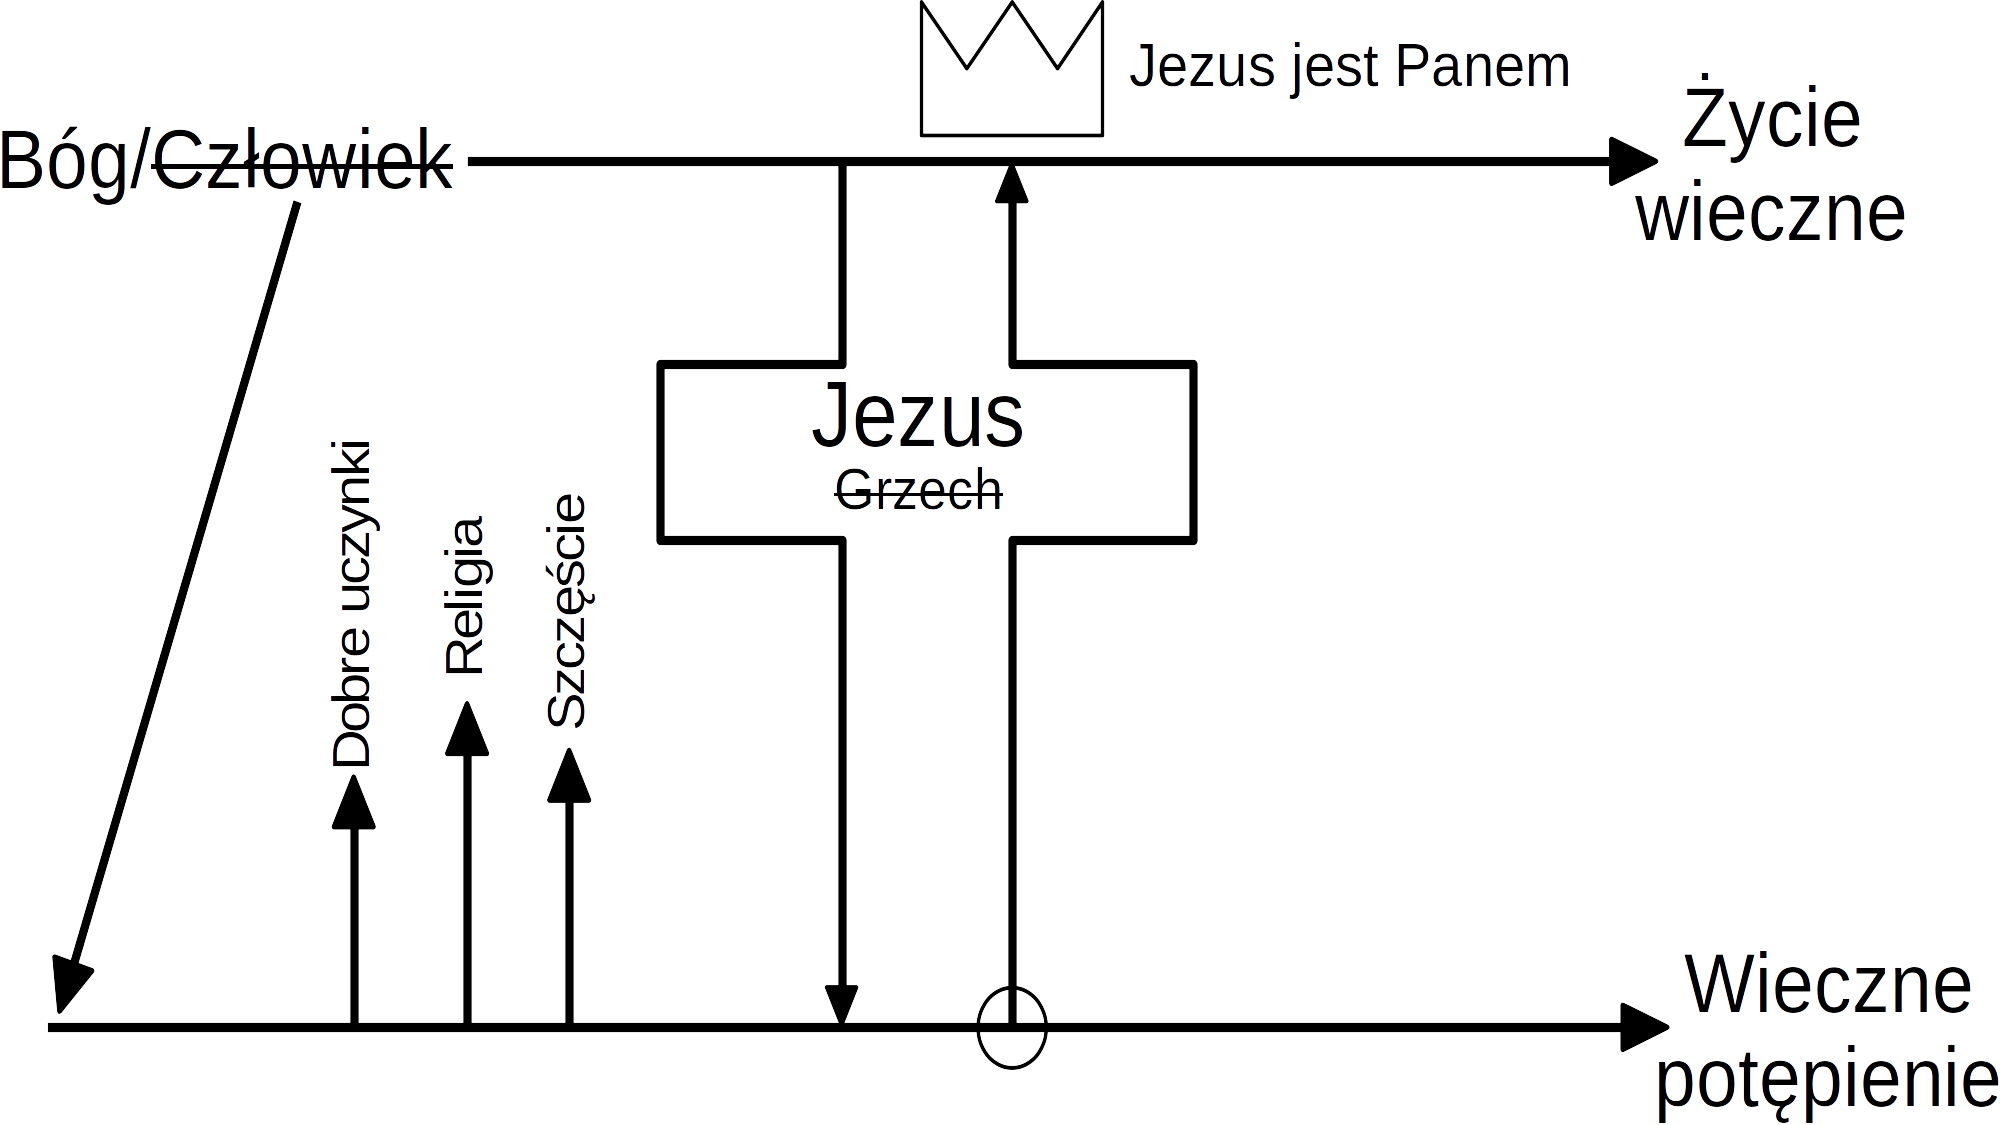
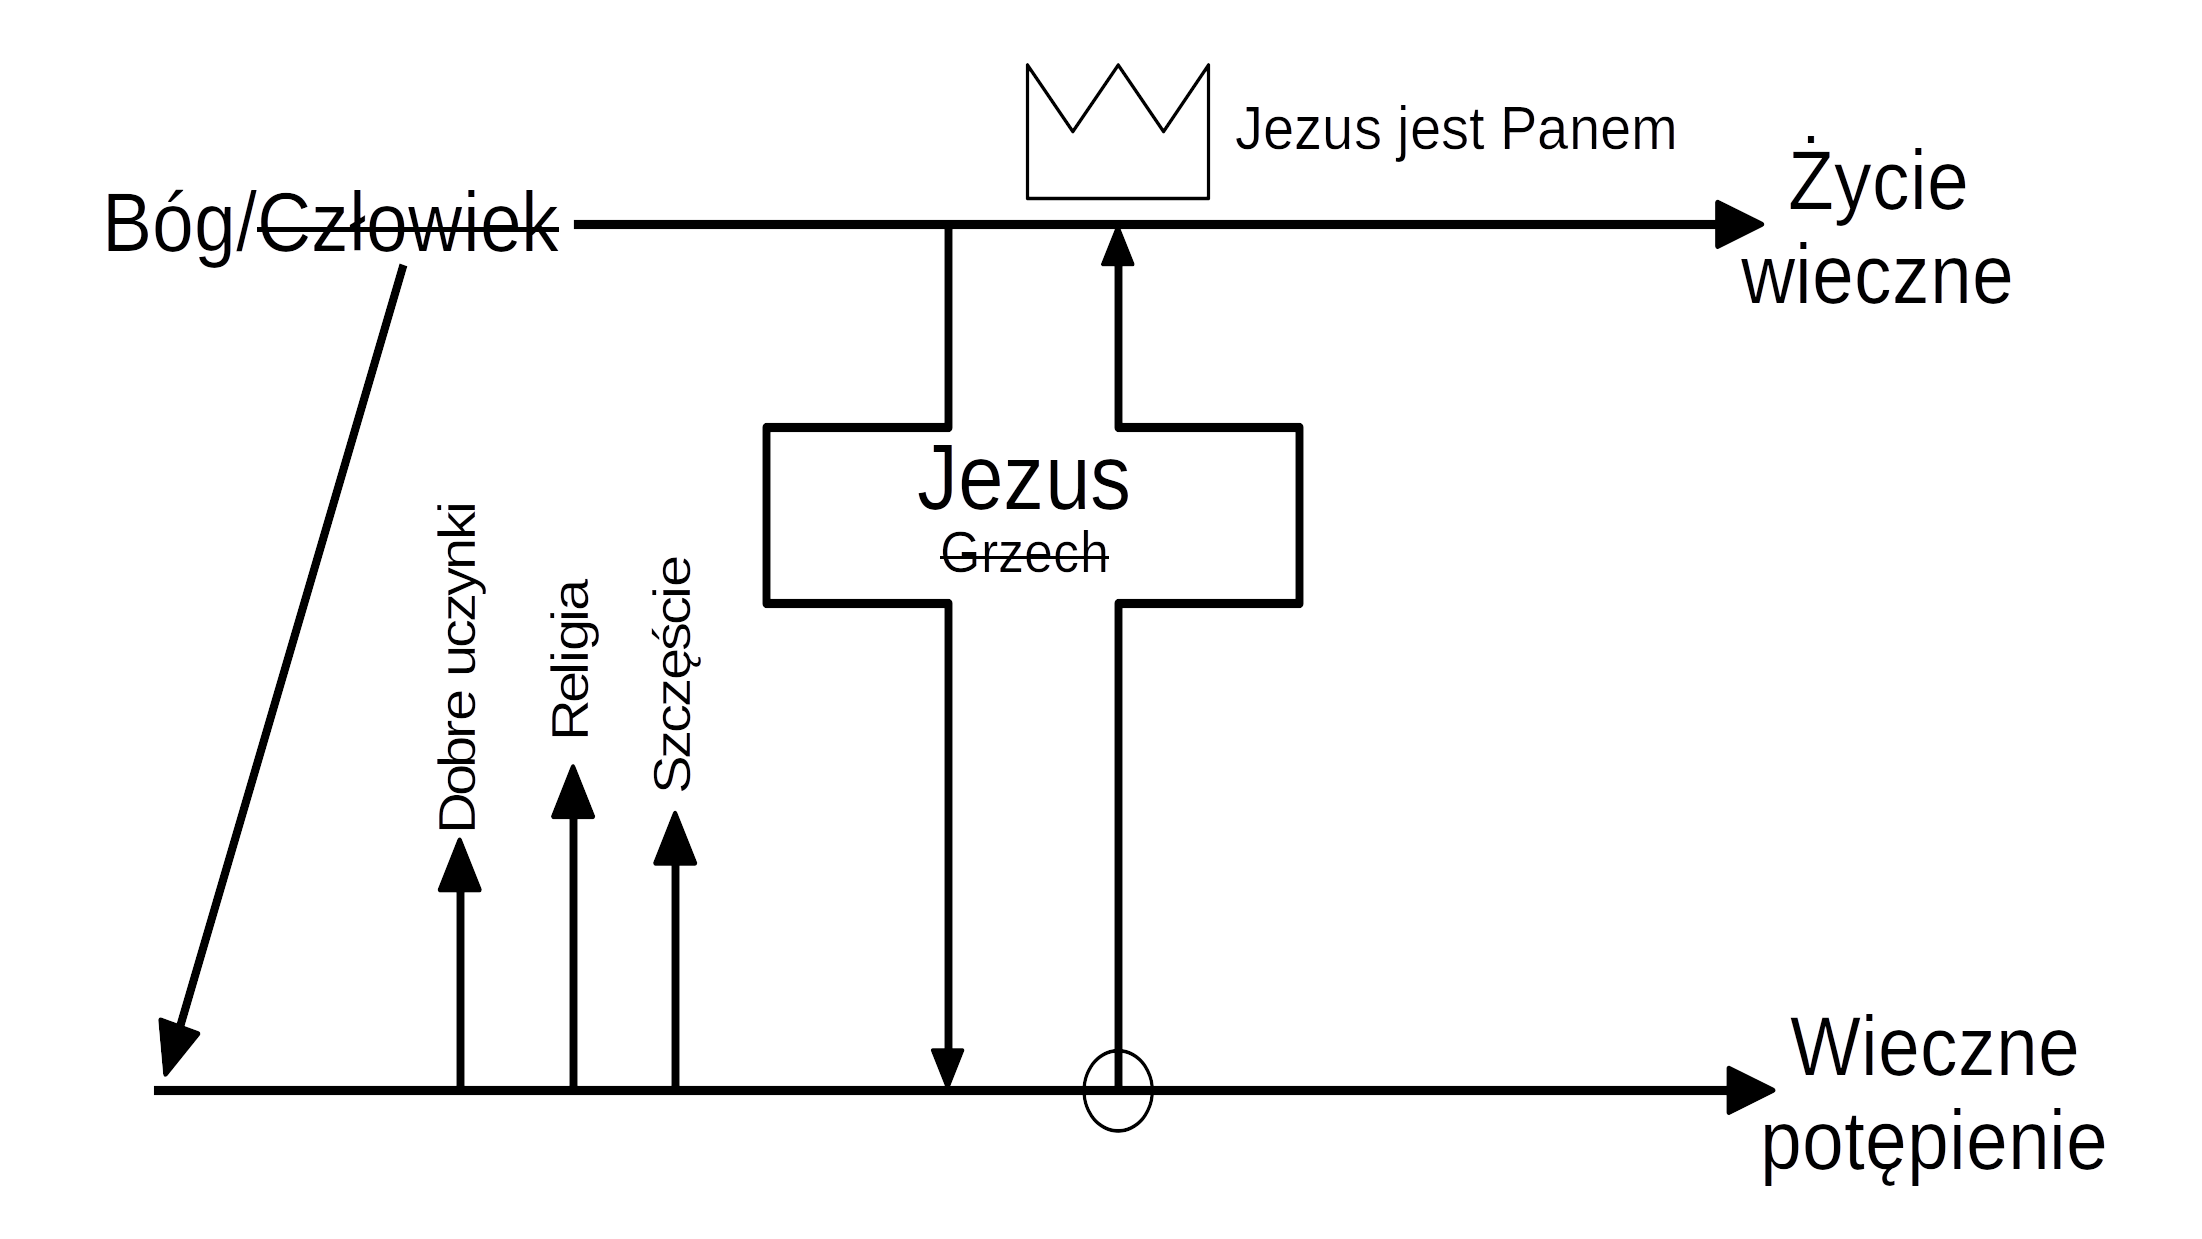
small fixex

Changed region(s): [[0.0, 0.0, 1.0, 0.9956], [0.062, 0.5289, 0.124, 0.7467]]

diff --git a/lib/src/ui/fragments/gospel_fragment.dart b/lib/src/ui/fragments/gospel_fragment.dart
@@ -64,7 +64,7 @@ class _GospelFragmentState extends State<GospelFragment> {
                       " grzechem. W innym miejscu biblia mówi, że zapłatą za"
                       " grzech jest śmierć (Rzym 6:23). W ten sposób wstępujemy"
                       " na drogą której końcem jest wieczne potępienie.",
-                  style: TextStyle(fontSize: 16, color: Colors.black),
+                  style: Theme.of(context).textTheme.subtitle1,
                   children: <TextSpan>[
                     TextSpan(
                         text:
@@ -97,10 +97,11 @@ class _GospelFragmentState extends State<GospelFragment> {
               Divider(
                 color: Colors.transparent,
               ),
-              FadeInImage(
-                placeholder: MemoryImage(kTransparentImage),
-                image: AssetImage("assets/ewangelia.png"),
-                height: 200,
+              ClipRRect(
+                borderRadius: BorderRadius.all(Radius.circular(20.0)),
+                child: FadeInImage(
+                    placeholder: MemoryImage(kTransparentImage),
+                    image: AssetImage("assets/ewangelia.png")),
               ),
             ],
           )

diff --git a/lib/src/ui/home_page.dart b/lib/src/ui/home_page.dart
@@ -1,6 +1,5 @@
 import 'package:flutter/material.dart';
 import 'package:flutter/services.dart';
-import '../../my_icons_icons.dart';
 import 'fragments/gospel_fragment.dart';
 import 'fragments/home_page_fragment.dart';
 import '../resources/consts.dart';
@@ -19,7 +18,7 @@ class HomePage extends StatefulWidget {
       label: HOME_PAGE_TEXT,
     ),
     BottomNavigationBarItem(
-      icon: Icon(MyIcons.cross),
+      icon: Icon(Icons.mood),
       label: GOSPEL_PAGE_TEXT,
     )
   ];
@@ -63,6 +62,10 @@ class HomePageState extends State<HomePage> {
         bottomNavigationBar: BottomNavigationBar(
           items: widget.navigationItems,
           currentIndex: _selectedIndex,
+          backgroundColor:
+              MediaQuery.of(context).platformBrightness == Brightness.dark
+                  ? Colors.black26
+                  : Colors.white,
           onTap: _onSelectItem,
         ),
         body: Center(

diff --git a/lib/src/ui/fragments/home_page_fragment.dart b/lib/src/ui/fragments/home_page_fragment.dart
@@ -299,6 +299,7 @@ class _HomePageFragmentState extends State<HomePageFragment> {
                                       borderRadius:
                                           BorderRadius.circular(20.0)),
                                   onPressed: () {
+                                    city = null;
                                     Navigator.pop(context);
                                   },
                                   child: Text(
@@ -353,11 +354,13 @@ class _HomePageFragmentState extends State<HomePageFragment> {
           });
     }
 
-    logger.d("city $city");
-    setState(() {
-      _city = city;
-      _isDialogVisible = false;
-    });
+    if (city != null) {
+      logger.d("city $city");
+      setState(() {
+        _city = city;
+        _isDialogVisible = false;
+      });
+    }
   }
 }
 

diff --git a/lib/src/app.dart b/lib/src/app.dart
@@ -5,8 +5,10 @@ import 'ui/home_page.dart';
 class MyApp extends StatelessWidget {
   @override
   Widget build(BuildContext context) {
-    SystemChrome.setSystemUIOverlayStyle(
-        SystemUiOverlayStyle(statusBarColor: Colors.white));
+    SystemChrome.setSystemUIOverlayStyle(SystemUiOverlayStyle(
+      statusBarColor: Colors.white,
+      systemNavigationBarColor: Colors.white,
+    ));
     SystemChrome.setPreferredOrientations([DeviceOrientation.portraitUp]);
 
     return MaterialApp(
